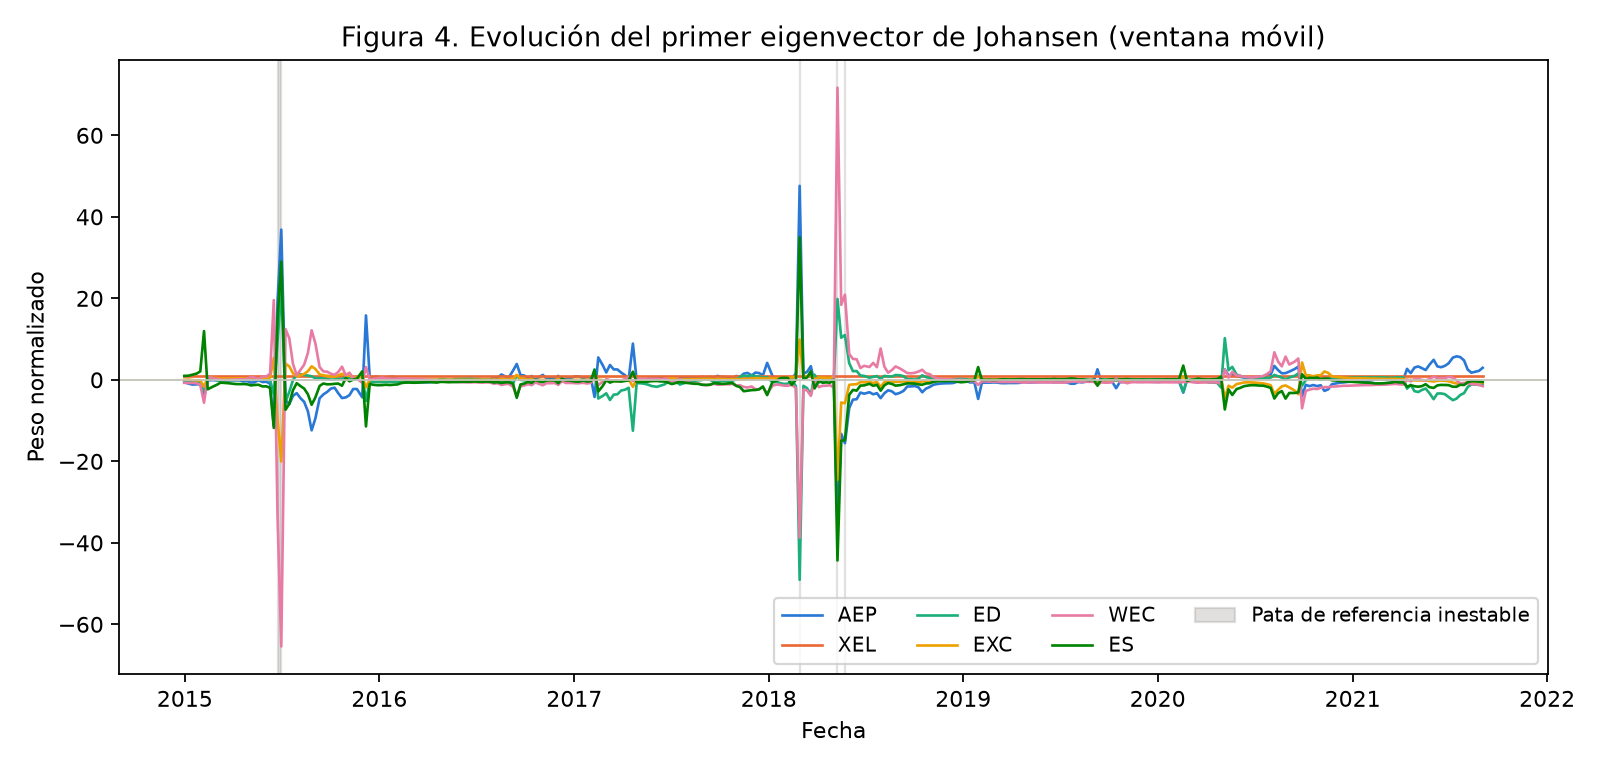
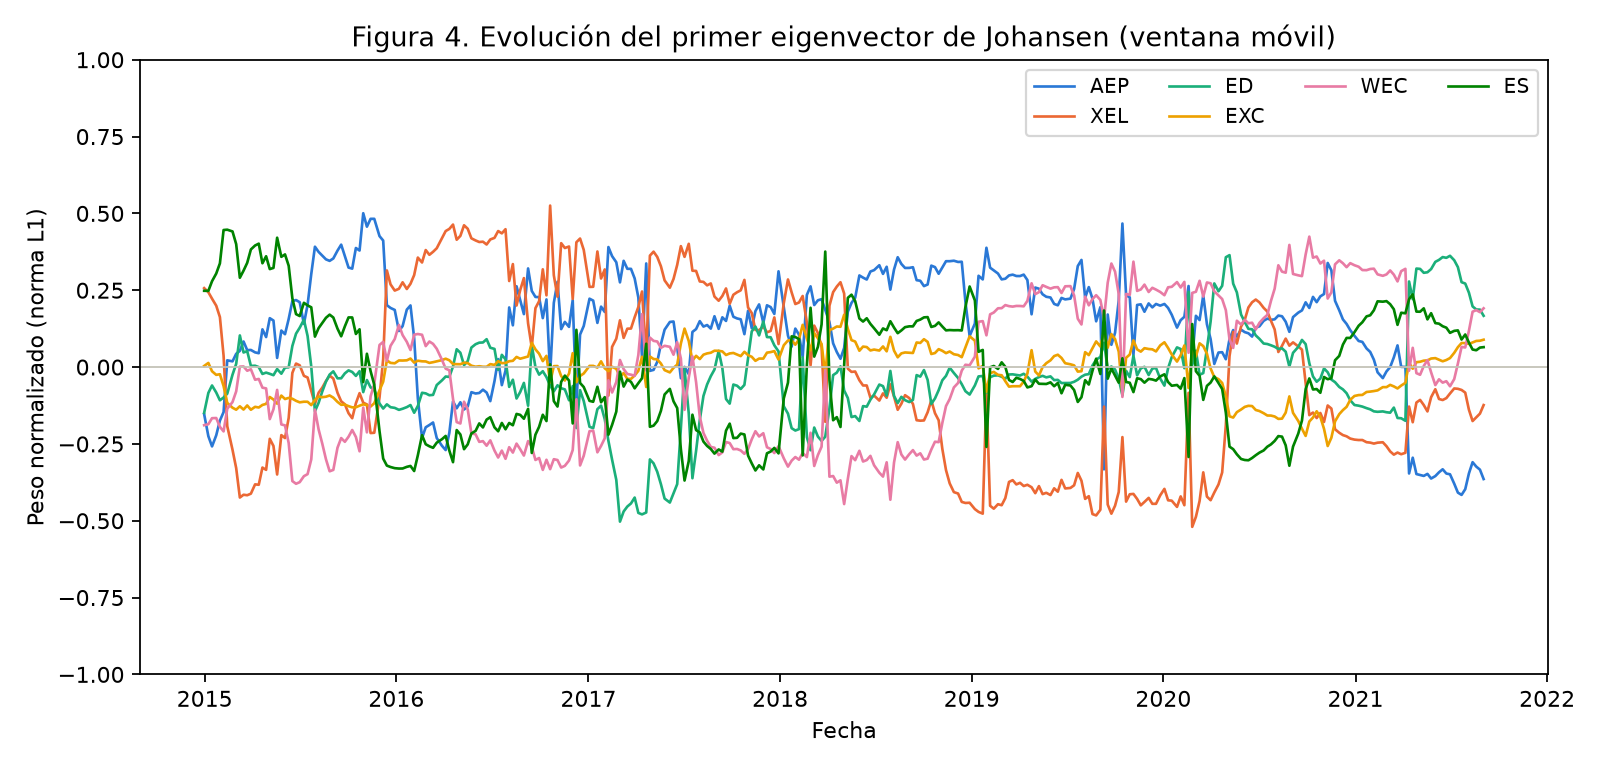
Quita la banda sombreada de la figura 4 y fija su eje y a [-1, 1]
Ya no hay ref_inestable que sombrear. Los pesos quedan acotados entre
-1 y 1 por construccion (norma L1), asi que el eje y fijo deja ver la
evolucion con la misma escala siempre.

diff --git a/cointegration/figures.py b/cointegration/figures.py
@@ -18,21 +18,6 @@ from dashboard.theme import asset_colors, palette
 FIGURES_DIR = DOCS_DIR / "figures"
 
 
-def _unstable_spans(index, unstable):
-    """Rangos [inicio, fin] de fechas consecutivas con ref_inestable=True, para sombrear."""
-    spans = []
-    start = None
-    for position, flag in enumerate(unstable):
-        if flag and start is None:
-            start = position
-        elif not flag and start is not None:
-            spans.append((index[start], index[position - 1]))
-            start = None
-    if start is not None:
-        spans.append((index[start], index[-1]))
-    return spans
-
-
 def plot_precios(selection, mode="light"):
     """Figura 1: precios del grupo normalizados a 100 al inicio, con los cortes de seleccion.json."""
     colors = palette(mode)
@@ -62,9 +47,8 @@ def plot_precios(selection, mode="light"):
 def plot_eigenvector(selection, mode="light"):
     """Figura 4: pesos normalizados del primer eigenvector por ventana, una linea por activo.
 
-    Las ventanas con ref_inestable=True (pata de referencia con menos del 5% del peso maximo
-    de su ventana) se marcan con una banda sombreada, porque dividir por esa pata ahi es
-    numericamente inestable.
+    Los pesos estan normalizados por norma L1 (la suma de los |pesos| de cada ventana es 1),
+    asi que cada uno queda entre -1 y 1 por construccion.
     """
     colors = palette(mode)
     table = pd.read_csv(ARTIFACTS_DIR / "eigvec_movil.csv", index_col="date", parse_dates=True)
@@ -74,16 +58,10 @@ def plot_eigenvector(selection, mode="light"):
         axis.plot(table.index, table[ticker], linewidth=1.2, label=ticker, color=color)
     axis.axhline(0, color=colors["baseline"], linewidth=0.8)
 
-    spans = _unstable_spans(table.index, table["ref_inestable"].to_numpy())
-    for i, (start, end) in enumerate(spans):
-        axis.axvspan(
-            start, end, color=colors["muted"], alpha=0.25,
-            label="Pata de referencia inestable" if i == 0 else None,
-        )
-
+    axis.set_ylim(-1.0, 1.0)
     axis.set_title("Figura 4. Evolución del primer eigenvector de Johansen (ventana móvil)")
     axis.set_xlabel("Fecha")
-    axis.set_ylabel("Peso normalizado")
+    axis.set_ylabel("Peso normalizado (norma L1)")
     axis.legend(ncol=4, fontsize=9)
     figure.tight_layout()
     figure.savefig(FIGURES_DIR / "fig4_eigenvector.png", dpi=160)
